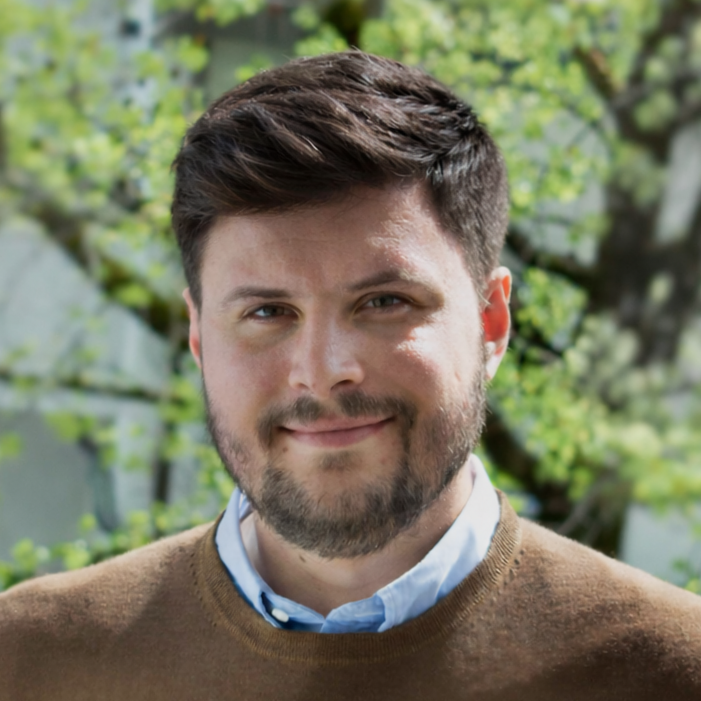
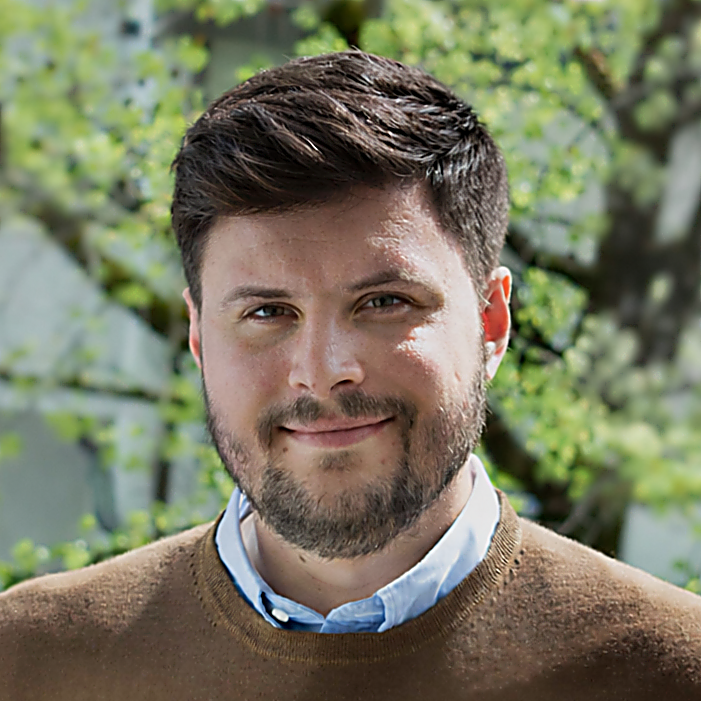
Update profile photo

diff --git a/index.html b/index.html
@@ -60,7 +60,7 @@
         <!-- Top link bar: photo, profile logos, talk slides, workshop. id="home"
              so the "Welcome" nav link scrolls here (to the photo). -->
         <div class="topbar" id="home">
-            <img class="topbar-photo" src="profile.png?v=3" alt="Mathias Braun" onerror="this.style.display='none'">
+            <img class="topbar-photo" src="profile.png?v=4" alt="Mathias Braun" onerror="this.style.display='none'">
             <div class="topbar-name">Mathias Braun</div>
             <!-- Icons: the three wide wordmark logos (EPFL, AMS, zbMATH) are spread to
                  positions 2, 5, 8 so they never sit next to each other and the row
